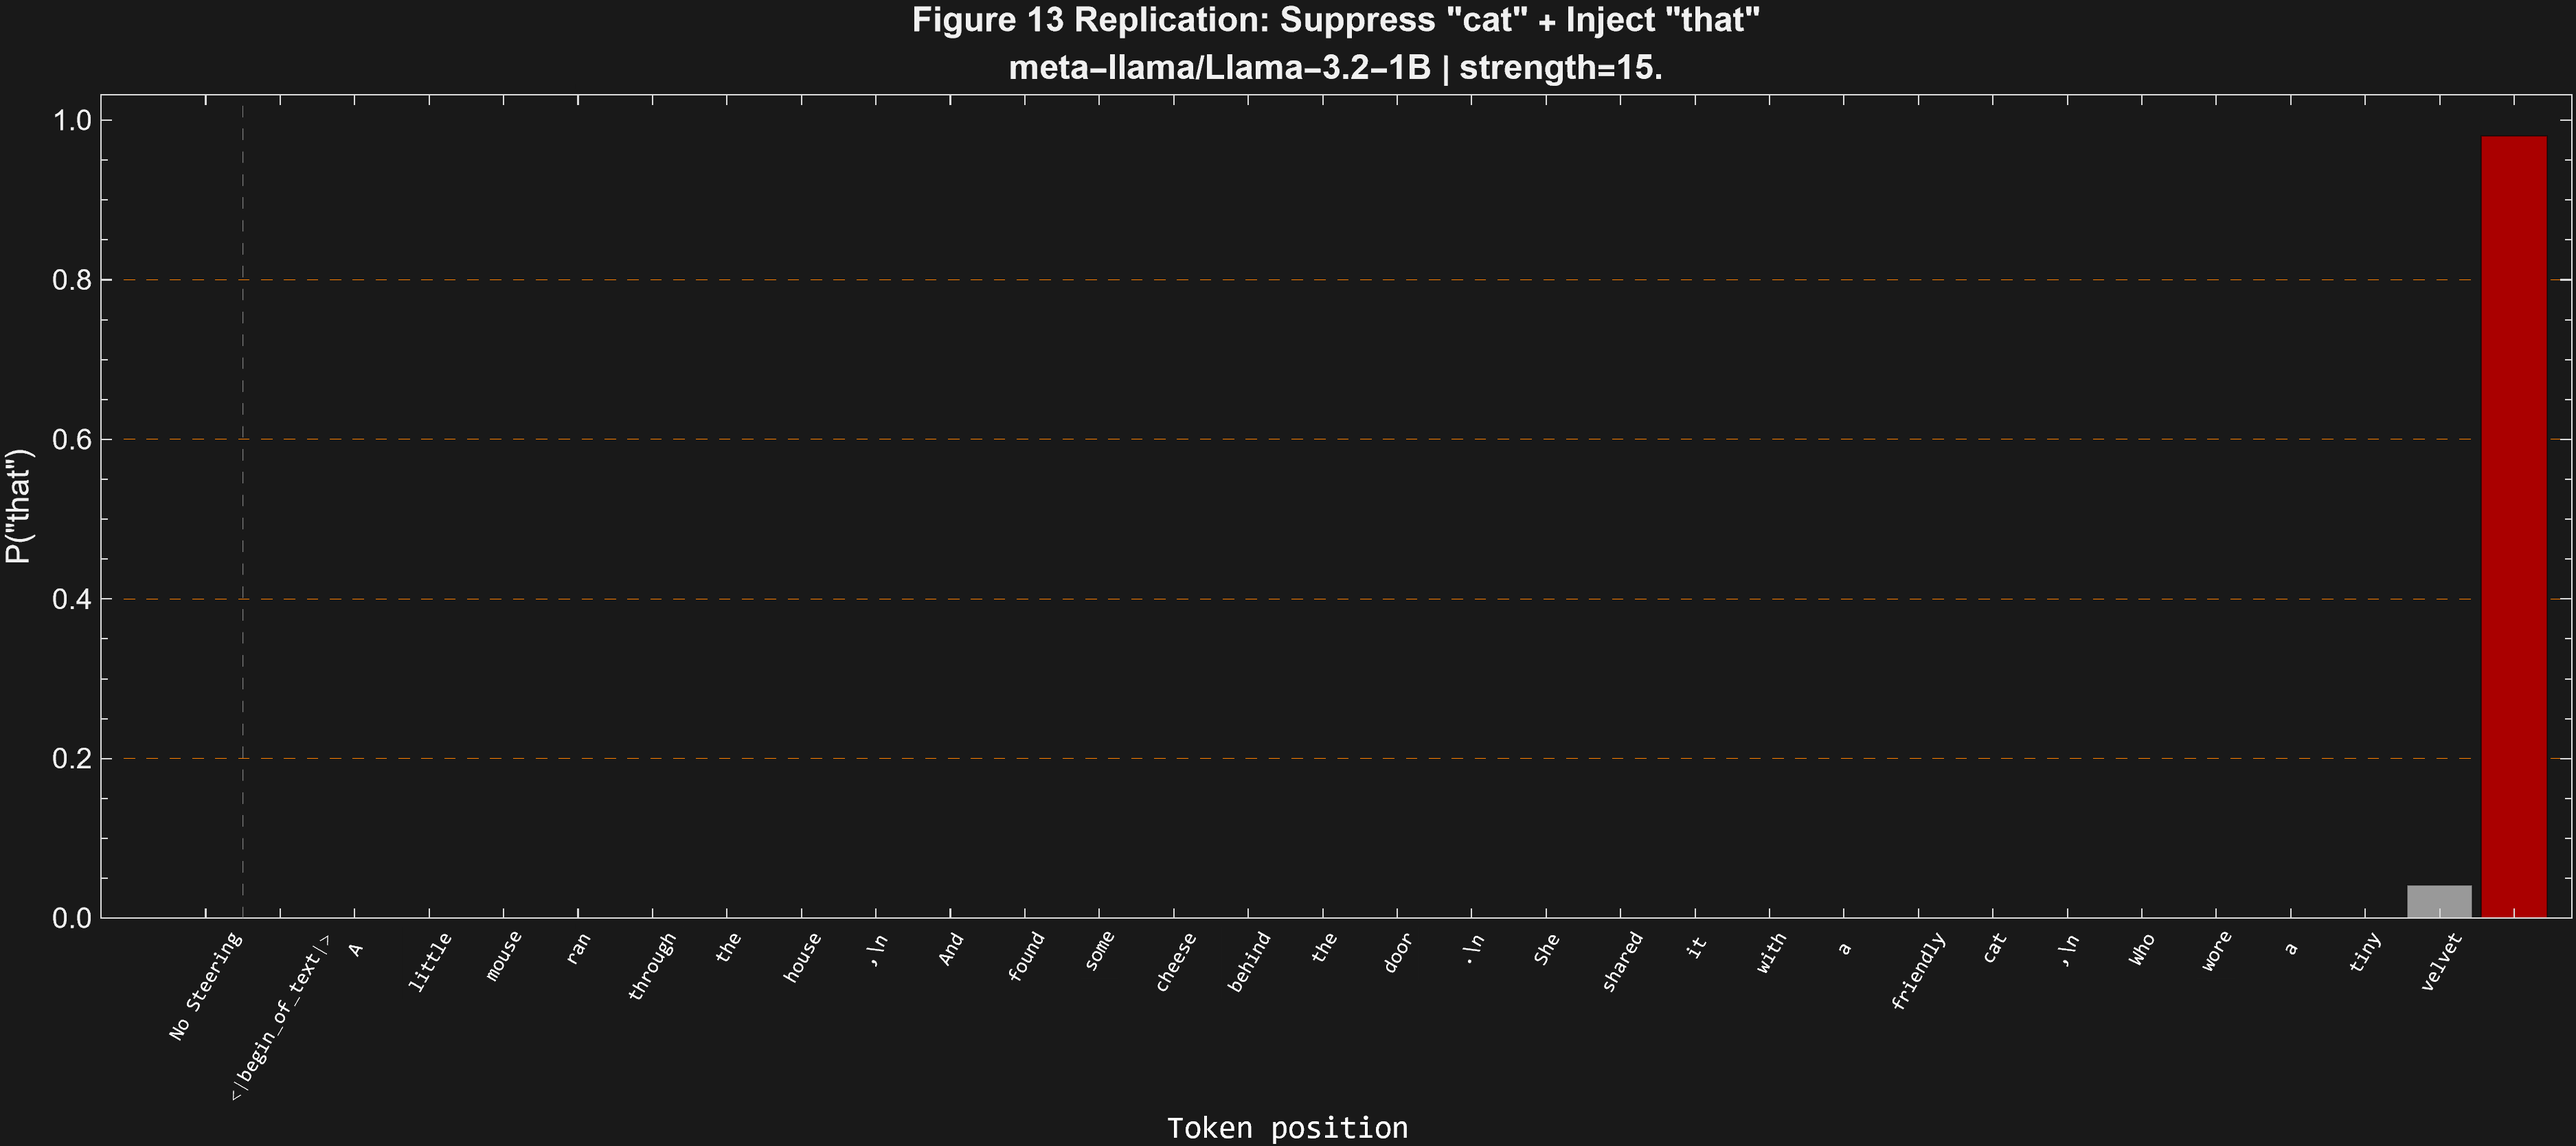
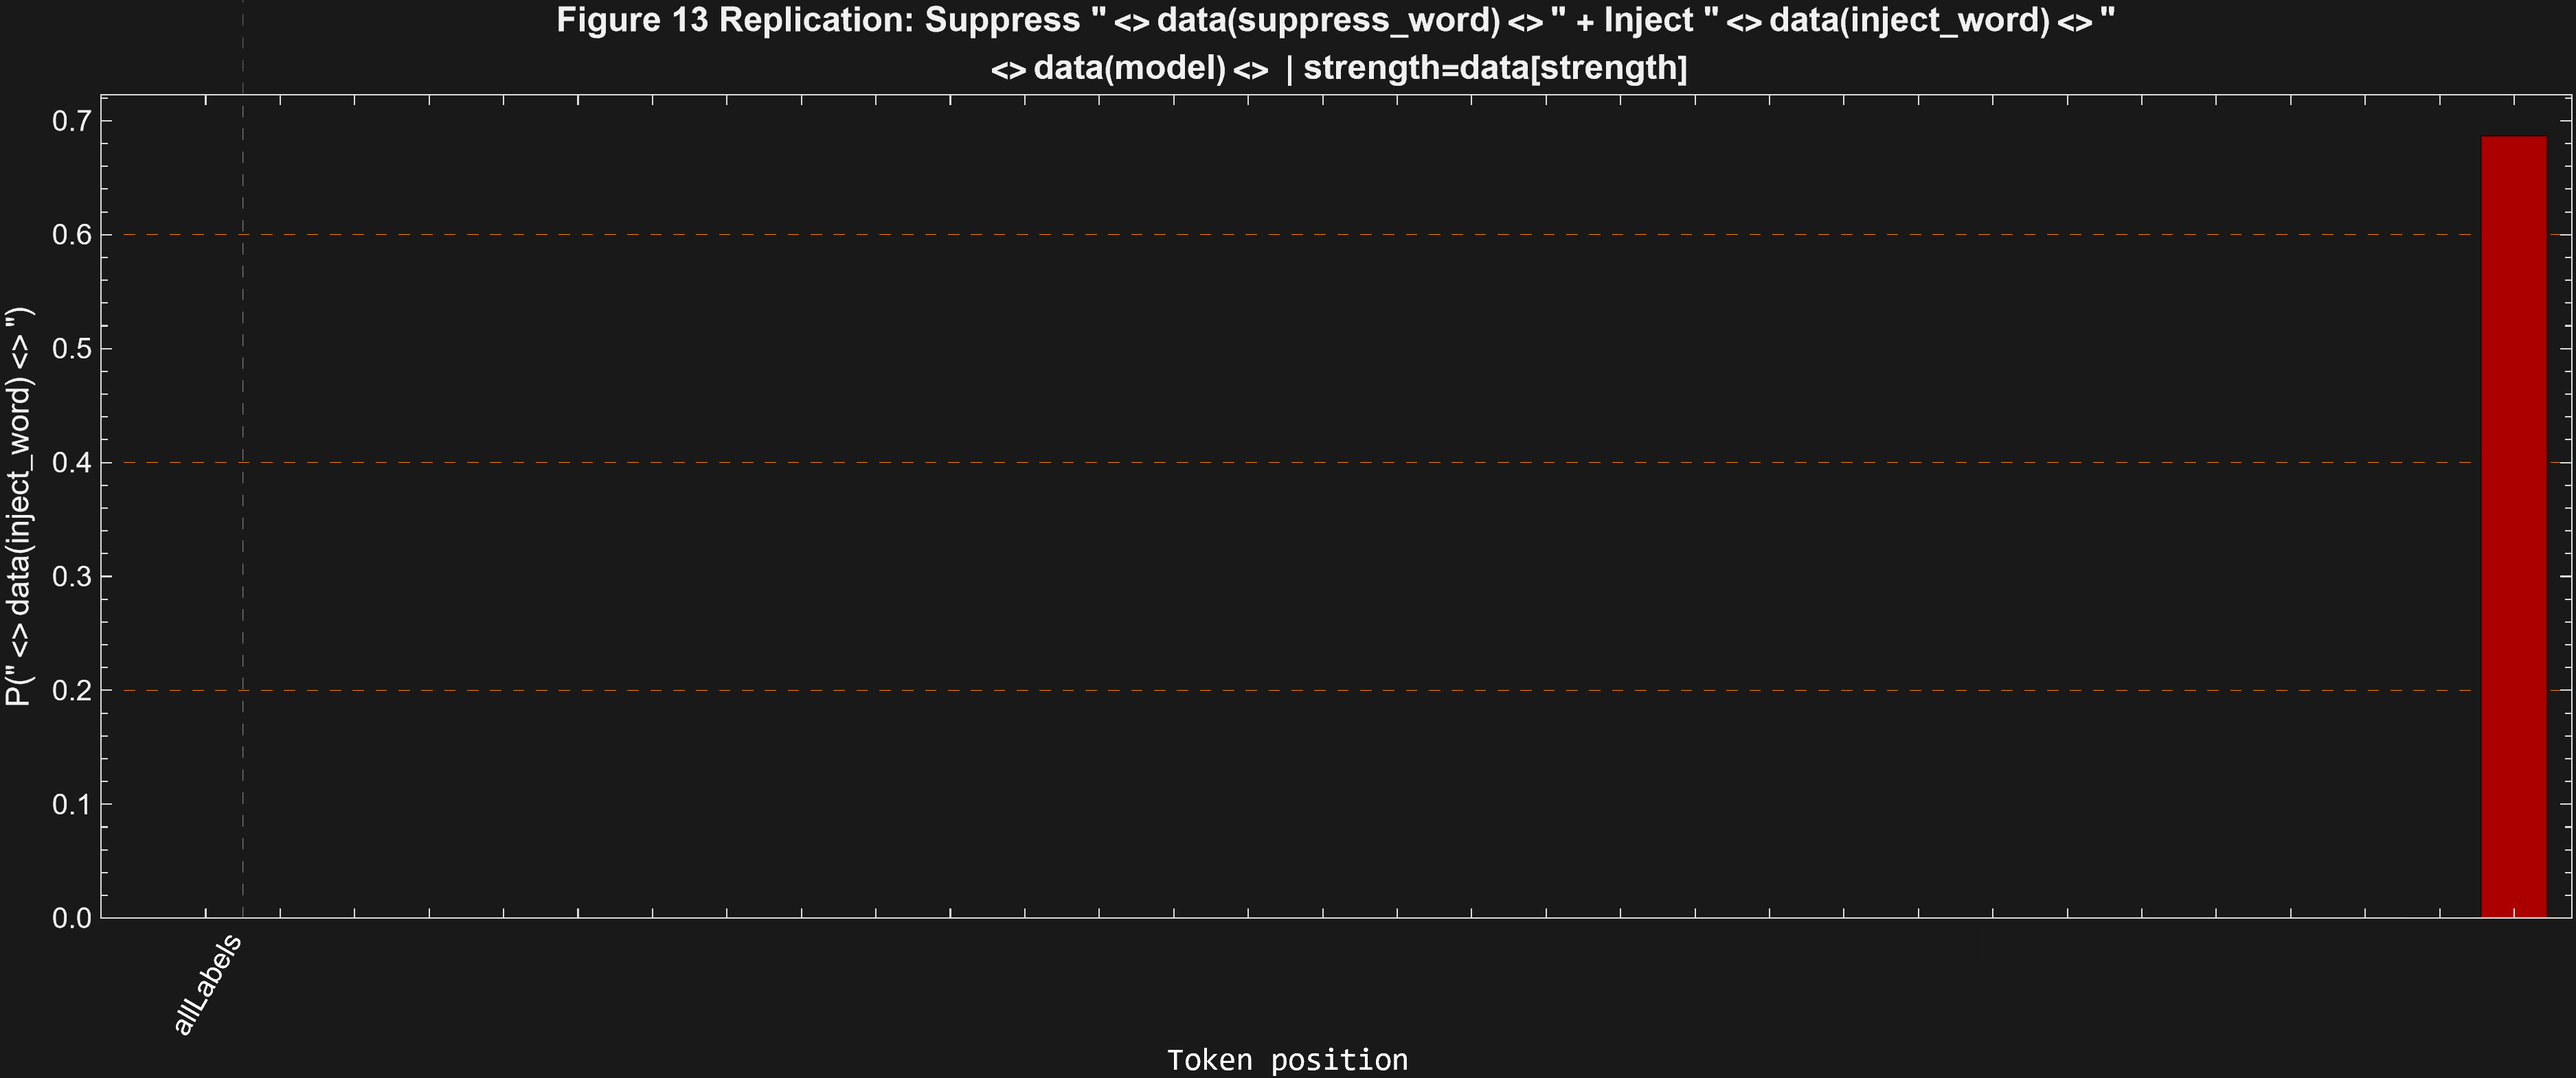
fix: replace hallucinated L5:19894 with validated -ee features in Llama preset
The Llama figure13 preset used a fabricated CLT feature (L5:19894) that
was introduced during a context continuation. Replaced with legitimate
-ee group features from rhyme_pairs_llama.json: L13:30985, L9:5488,
L14:27874, L13:32049. Prompt changed from -at/cat to -ee/free, strength
15 -> 10. Result: 68.7% redirect (vs 77.7% in plip-rs BF16).

diff --git a/examples/figure13_planning_poems.rs b/examples/figure13_planning_poems.rs
@@ -11,7 +11,7 @@
 //!
 //! | Preset | Model | CLT | Suppress | Inject |
 //! |--------|-------|-----|----------|--------|
-//! | `llama3.2-1b-524k` | Llama 3.2 1B | 524K | L5:19894 ("cat") | L14:13043 ("that") |
+//! | `llama3.2-1b-524k` | Llama 3.2 1B | 524K | -ee group: L13:30985 + L9:5488 + L14:27874 + L13:32049 | L14:13043 ("that") |
 //! | `gemma2-2b-426k` | Gemma 2 2B | 426K | L16:13725 + L25:9385 ("-out") | L22:10243 ("around") |
 //! | `gemma2-2b-2.5m` | Gemma 2 2B | 2.5M | L25:57092 + L23:49923 + L20:77102 ("-out") | L25:82839 ("can") |
 //!
@@ -129,20 +129,21 @@ struct Preset {
 
 /// Llama 3.2 1B with 524K CLT.
 ///
-/// Suppress "cat" (L5:19894), inject "that" (L14:13043).
-/// From plip-rs validation: P("that") reaches 0.98 at planning site.
+/// Suppress -ee group: L13:30985 ("he"), L9:5488 ("be"), L14:27874 ("ne"),
+/// L13:32049 ("we").  Inject "that" (L14:13043) from -at group.
+/// From plip-rs validation: P("that") reaches 0.777 at the last position.
 const LLAMA: Preset = Preset {
     model: "meta-llama/Llama-3.2-1B",
     clt_repo: "mntss/clt-llama-3.2-1b-524k",
-    prompt: "A little mouse ran through the house,\n\
-             And found some cheese behind the door.\n\
-             She shared it with a friendly cat,\n\
-             Who wore a tiny velvet",
-    suppress_word: "cat",
+    prompt: "The birds were singing in the tree,\n\
+             And everything was wild and free.\n\
+             The river ran down to the sea,\n\
+             There is so much we cannot",
+    suppress_word: "free",
     inject_word: "that",
-    suppress_features: &[(5, 19894)],
+    suppress_features: &[(13, 30985), (9, 5488), (14, 27874), (13, 32049)],
     inject_feature: (14, 13043),
-    strength: 15.0,
+    strength: 10.0,
 };
 
 /// Gemma 2 2B with 426K CLT.
